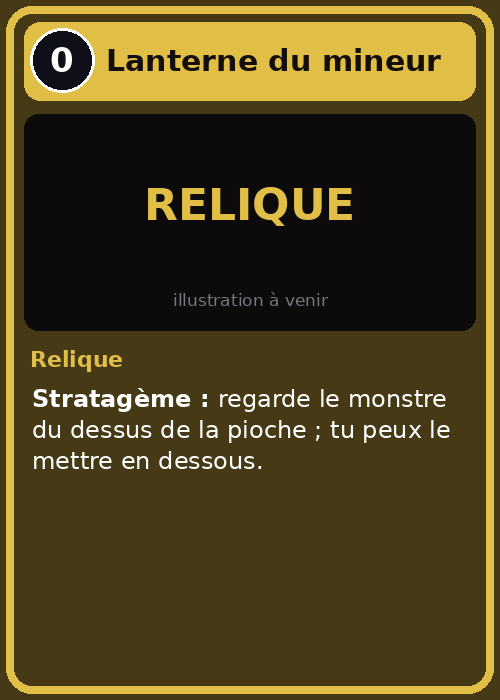
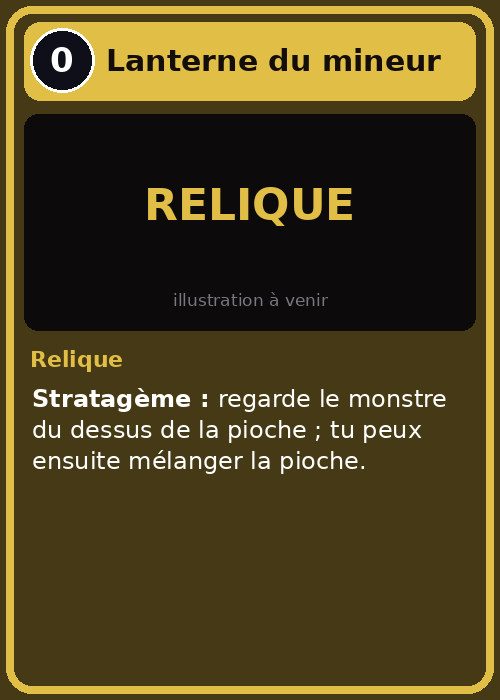
Jetons : Sève, Niveau 1-3 et effets (Sonné, Empoisonné, Rapide, Insensible, Ivre, Gueule de bois, Contrecoup, Entravé, En soin, Piège) ; PV et Puissance aux compteurs ; Lanterne sans « en dessous » ; Sève amère empoisonne
Claude-Session: https://claude.ai/code/session_01Ei1ETxKFF4cSM4RwXRQ4jQ

Changed region(s): [[0.06, 0.63, 0.72, 0.69], [0.84, 0.6, 0.9, 0.63]]

diff --git a/tools/format_v3.py b/tools/format_v3.py
@@ -45,23 +45,28 @@ def jeton(nom, txt, coul):
     for k, l in enumerate(lignes):
         d.text((60, y0 + k * size * 1.16), l, font=f, fill=(255, 255, 255), anchor='mm')
     im.save(f'img/tokens/{nom}.png')
-JETONS = [  # id, nom affiché, texte, couleur
+JETONS = [  # id, nom affiché, texte, couleur — ressources du Terrain et effets (bonus/malus) ; PV et Puissance : compteurs
     ('Seve', 'Sève', 'SÈVE', (60, 150, 70)),
     ('Niv1', 'Niveau 1', 'NIV|1', (200, 150, 30)), ('Niv2', 'Niveau 2', 'NIV|2', (215, 130, 20)),
     ('Niv3', 'Niveau 3 (Fief)', 'NIV|3', (230, 100, 10)),
-    ('Sonne', 'Sonné', 'SONNÉ', (120, 70, 170)), ('Rapide', 'Rapide', 'RAPIDE', (30, 150, 190)),
-    ('PlusP', '+1 Puissance', '+1|P', (190, 50, 45)), ('PlusPV', '+1 PV', '+1|PV', (40, 90, 190)),
-    ('Biere', 'Bière (+1 P)', 'BIÈRE', (205, 160, 40)), ('Cidre', 'Cidre (+2 PV)', 'CIDRE', (150, 170, 50)),
-    ('Rhum', 'Rhum (+2 P, Sonnée ensuite)', 'RHUM', (140, 70, 30)), ('Whisky', 'Whisky (pas Sonnée)', 'WHISKY', (170, 110, 40)),
-    ('Absinthe', 'Absinthe (+3 P, -2 PV au Repos)', 'ABSIN|THE', (70, 150, 60)),
-    ('Piege', 'Piège', 'PIÈGE', (90, 90, 90)),
+    ('Sonne', 'Sonné : ne frappe pas à son prochain combat', 'SONNÉ', (120, 70, 170)),
+    ('Empoisonne', 'Empoisonné : perd 1 PV à chaque Repos de son propriétaire, jusqu\'à être soigné', 'POISON', (70, 140, 40)),
+    ('Rapide', 'Rapide (gagné ce tour)', 'RAPIDE', (30, 150, 190)),
+    ('Insensible', 'Insensible : ne peut pas être Sonné ce tour (Whisky)', 'INSEN|SIBLE', (60, 110, 160)),
+    ('Ivre', 'Ivre : a bu un alcool ce tour (un 2e = Sonné)', 'IVRE', (200, 90, 130)),
+    ('GueuleDeBois', 'Gueule de bois : sera Sonné au tour suivant (Rhum)', 'GUEULE|DE BOIS', (140, 70, 30)),
+    ('Contrecoup', 'Contrecoup : perd 2 PV à ton prochain Repos (Absinthe)', 'CONTRE|COUP', (110, 40, 90)),
+    ('Entrave', 'Entravé : ne peut pas changer de salle (Toile)', 'ENTRAVÉ', (90, 90, 90)),
+    ('EnSoin', 'En soin : blessé au Camp, rate un tour', 'EN|SOIN', (190, 60, 60)),
+    ('Piege', 'Piège (Éclaireur)', 'PIÈGE', (60, 60, 60)),
 ]
 for tid, _, txt, coul in JETONS:
     jeton(tid.lower(), txt, coul)
-for old in ('seve.png', 'niveau.png'):
-    if os.path.exists('img/tokens/' + old) and old[:-4] not in [t[0].lower() for t in JETONS]:
-        os.remove('img/tokens/' + old)
-G['draggableTokens'] = [{'id': 'Degat', 'name': 'Dégât', 'image': BASE + '/img/tokens/degat.png'}] + [
+garder = {t[0].lower() + '.png' for t in JETONS} | {'initiative.png'}
+for f in os.listdir('img/tokens'):
+    if f not in garder:
+        os.remove('img/tokens/' + f)
+G['draggableTokens'] = [
     {'id': tid, 'name': nom, 'image': BASE + '/img/tokens/' + tid.lower() + '.png'} for tid, nom, _, _ in JETONS]
 for t in G.get('tokens', []):
     t['image'] = BASE + '/img/tokens/' + t['image'].rsplit('/', 1)[1]
@@ -70,13 +75,13 @@ for t in G.get('tokens', []):
 h = g['customHelp'].split('\n')
 h = [l for l in h if not l.startswith('Réserve (8 cartes)') and not l.startswith('Jetons Pousse')]
 h = [l.replace('Expéditions 1-4, Gardien, Réserve ; Énergie et Camp', 'Expéditions 1-4, Gardien ; Énergie et Camp')
-      .replace('chacun joue une carte Rapide ou instantanée ou passe', 'chacun joue une carte Rapide, ou un bonus de son Terrain si le Duel a lieu dans sa salle, ou passe').replace('Jetons Dégât et Baril à poser sur les cartes.', 'Jetons (panneau des jetons, à glisser sur les cartes) : Dégât, Sève, Niveau 1-3, Sonné, Rapide, +1 Puissance, +1 PV, alcools, Piège.') for l in h]
+      .replace('chacun joue une carte Rapide ou instantanée ou passe', 'chacun joue une carte Rapide, ou un bonus de son Terrain si le Duel a lieu dans sa salle, ou passe').replace('Jetons Dégât et Baril à poser sur les cartes.', 'PV et Puissance (dégâts, bonus, malus) : compteurs de la carte (clic droit > Toggle counter 1 = PV, touche C ; counter 2 = Puissance, Ctrl C). Jetons à glisser sur les cartes : Sève, Niveau 1-3 et effets (Sonné, Empoisonné, Rapide, Insensible, Ivre, Gueule de bois, Contrecoup, Entravé, En soin, Piège). Effets détaillés : livret, Récap des effets.') for l in h]
 h += [
     "Deck : 1 Gardien + 1 Terrain de la même faction (n'importe lequel) + 30 cartes. Le Terrain commence à côté du Gardien : glisse-le dans l'Expédition voulue à ton 1er Assaut. Il porte les bonus de la guilde (alcools, recettes) et leur prix.",
-    "Bonus du Terrain : à ton Assaut, ou pendant n'importe quel Duel dans la salle de ton Terrain (même au tour adverse). Ils visent tes unités de cette salle. Pose un jeton d'effet pour t'en souvenir.",
+    "Bonus du Terrain : à ton Assaut, ou pendant n'importe quel Duel dans la salle de ton Terrain (même au tour adverse). Ils visent tes unités de cette salle. Bonus de PV ou Puissance : compteurs ; autres effets : jetons.",
     "Niveau : jeton Niv 1 à la pose. À ton Retrait, +1 s'il était déjà à sa place au début du tour (3 max). Niv. 1 bonus de lieu, niv. 2 ressource renforcée, niv. 3 Fief (+1 trésor par monstre tué ici). Lever le camp (Stratagème) : Expédition voisine, -1 niveau.",
     "Le Terrain a des PV, ne frappe pas, ne bloque pas les raids. Une unité adverse qui combat dans sa salle peut l'attaquer. Détruit par l'adversaire : +1 trésor pour lui (pillage) ; il revient au niveau 1 à ton Assaut suivant.",
-    "Ivrognes : tirer une pinte = jetons Dégât sur le baril (1 PV, 2 pour un alcool fort) + jeton de l'alcool sur l'unité. 2 pintes par tour, 3 au niveau 2. Dernière tournée : la pinte peut vider le baril, qui explose (sans pillage). Guss soigne 2 PV au Repos.",
+    "Ivrognes : tirer une pinte = -1 au compteur de PV du baril (-2 pour un alcool fort) + compteur ou jeton d'effet sur l'unité (Ivre, Gueule de bois, Insensible, Contrecoup). 2 pintes par tour, 3 au niveau 2. Dernière tournée : la pinte peut vider le baril, qui explose (sans pillage). Guss soigne 2 PV au Repos.",
     "Druides : jetons Sève sur ton bosquet (4 max), +1 à ton Repos (+2 au niveau 2). 1 recette par tour, payée en Sève. Bosquet détruit : tu perds la moitié de ta Sève.",
     "Jetons Pousse et Loup : clic droit sur la carte qui les invoque.",
 ]

diff --git a/tools/generate.py b/tools/generate.py
@@ -252,7 +252,7 @@ CARDS += [
       "Entre quand la pioche de monstres est vide.\n**Enragé :** à 9 PV ou moins, +2 Puissance.\n"
       "**Fin :** sa mort termine la partie à la fin du tour.", 6, 18, legal=False, token=True, tresors=6),
     C("lanterne", "Lanterne du mineur", "Relique", 0, MINE,
-      "**Stratagème :** regarde le monstre du dessus de la pioche ; tu peux le mettre en dessous.",
+      "**Stratagème :** regarde le monstre du dessus de la pioche ; tu peux ensuite mélanger la pioche.",
       legal=False, token=True),
     C("pioche-runique", "Pioche runique", "Relique", 0, MINE,
       "**Assaut :** ta première unité qui attaque un monstre a +2 Puissance pour ce combat.",
@@ -292,7 +292,7 @@ NEW = {
  "bosquet": _NIV + _FORET + "**2 Soupe de racines :** +2 PV ce tour.\n**2 Tarte aux baies :** +1 P ce tour.\n"
    "**2 Tisane des bois :** soin, pas Sonnées.\n**3 Poêlée des esprits :** 1 Pousse ici et dans chaque salle voisine où tu as une unité.\n"
    "**4 Banquet :** toutes tes unités +2/+2 ce tour.",
- "bosquet-poison": _NIV + _FORET + "**2 Sève amère :** 1 dégât à chaque ennemi d'ici.\n**2 Brouet de baies :** 2 dégâts à une cible d'ici, Sonnée.\n"
+ "bosquet-poison": _NIV + _FORET + "**2 Sève amère :** 1 dégât à chaque ennemi d'ici, qui est Empoisonné.\n**2 Brouet de baies :** 2 dégâts à une cible d'ici, Sonnée.\n"
    "**3 Fumée d'herbes :** les ennemis d'ici sont Sonnés.\n**4 Philtre noir :** 2 dégâts à chaque ennemi d'une salle.",
  "bosquet-ombre": _NIV + _FORET + "**Rapide :** ses recettes se jouent dans n'importe quel Duel.\n"
    "**1 Pain de route :** tes unités d'ici gagnent Rapide.\n**1 Infusion vive :** une unité, Rapide et +1 P.\n"
